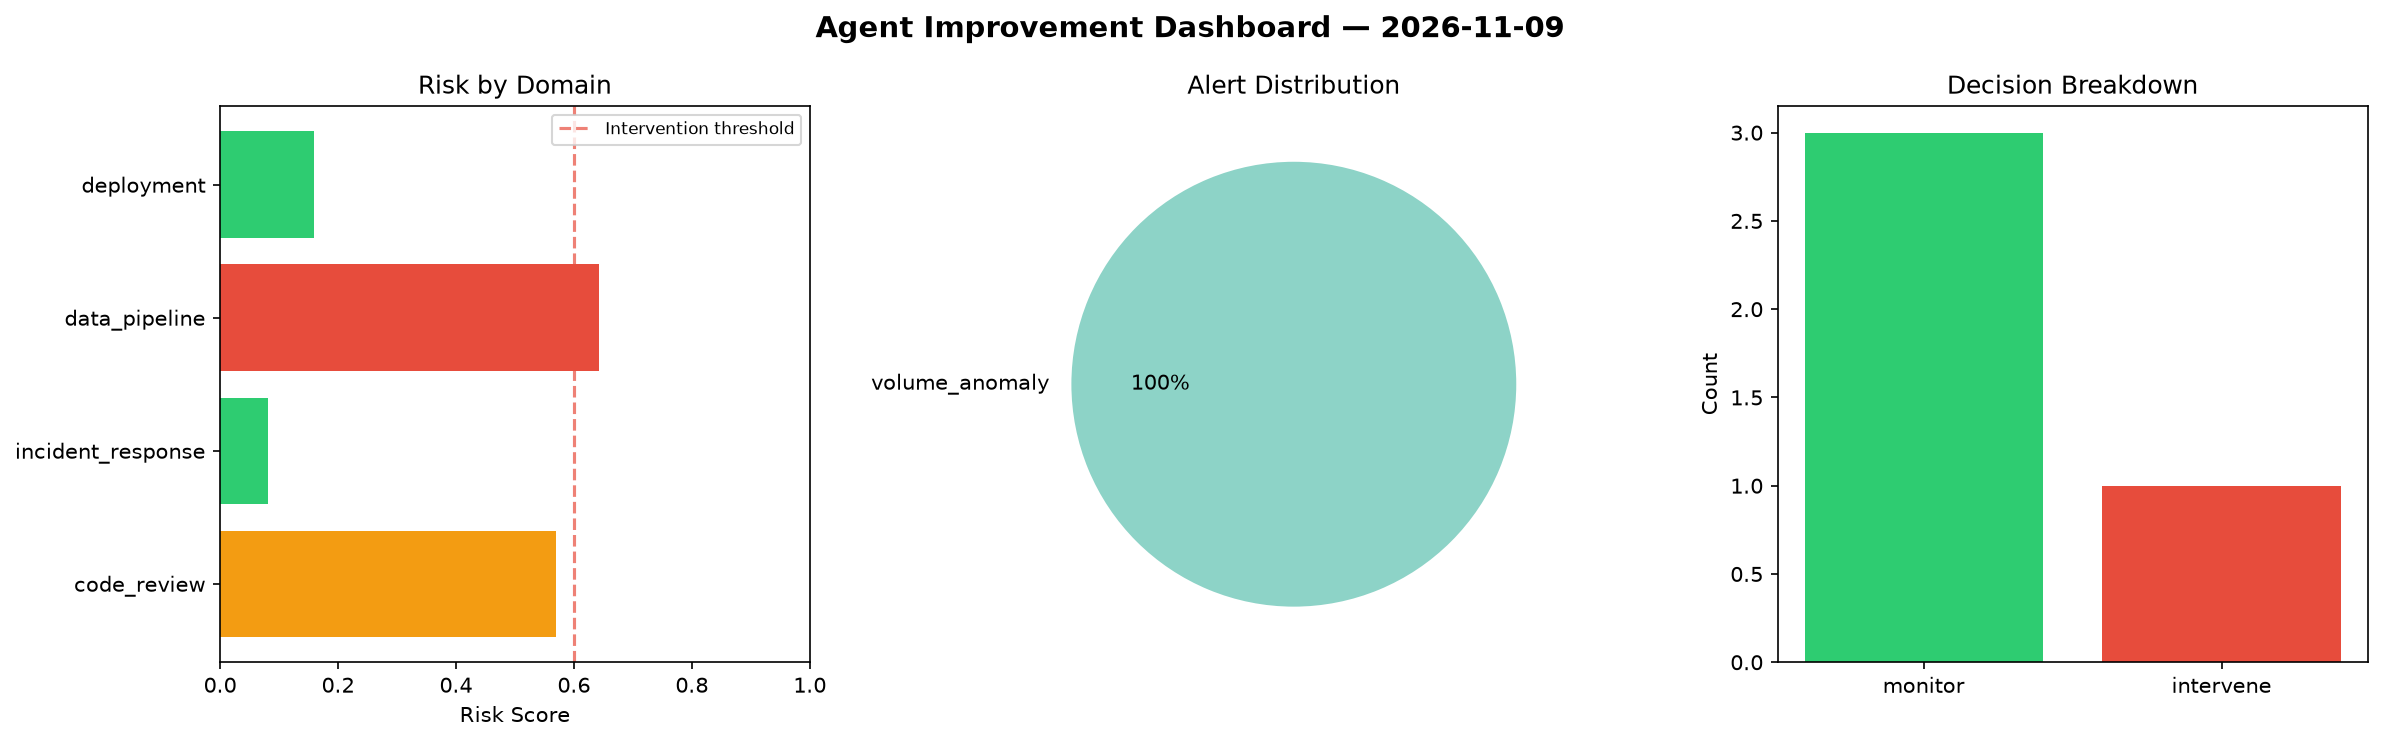
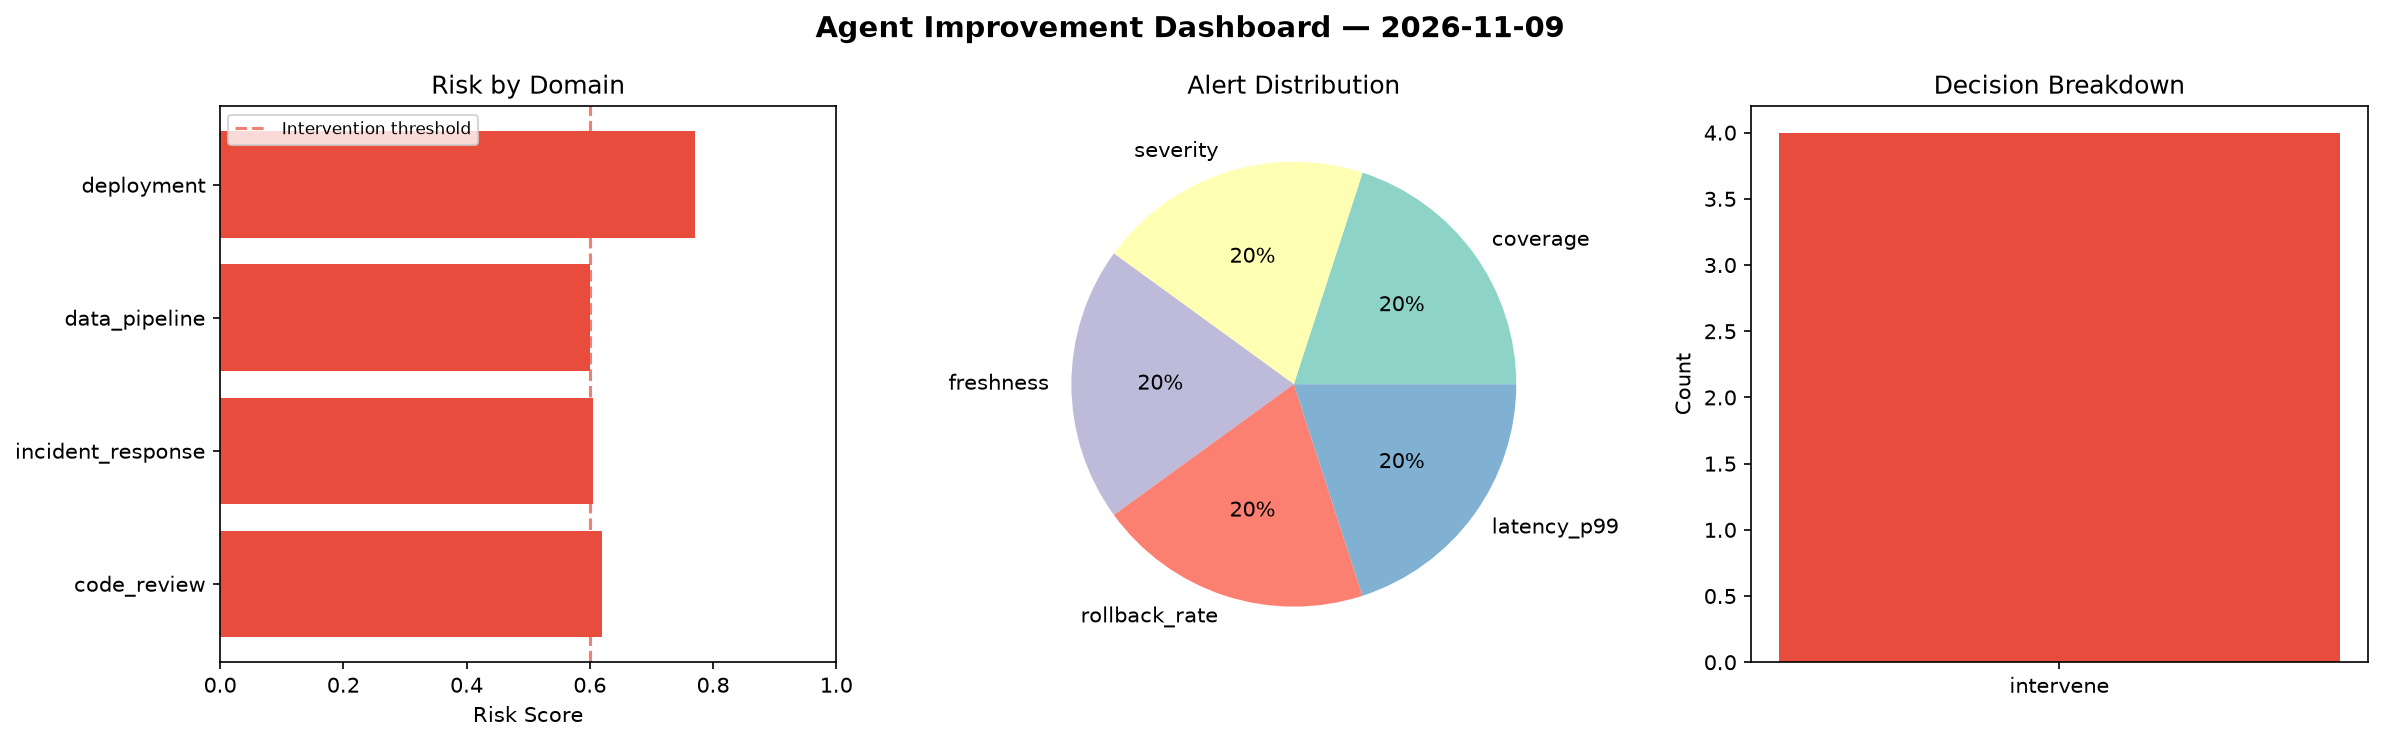
agent-improvement: daily cycle 2026-11-09T18:48

diff --git a/logs/2026-11-09.md b/logs/2026-11-09.md
@@ -1,6 +1,6 @@
 # Agent Improvement Report — 2026-11-09
 
-**Cycle ID:** `95aaffbe` | **Avg Risk:** 0.3631 | **Interventions:** 1/4
+**Cycle ID:** `4c18d7da` | **Avg Risk:** 0.6489 | **Interventions:** 4/4
 
 ![Dashboard](2026-11-09_dashboard.png)
 
@@ -10,18 +10,18 @@
 
 | Domain | Risk Score | Decision | Alerts |
 |--------|-----------|----------|--------|
-| code_review | 0.5699 | monitor | none |
-| incident_response | 0.0806 | monitor | none |
-| data_pipeline | 0.6421 | intervene | volume_anomaly |
-| deployment | 0.1597 | monitor | none |
+| code_review | 0.6198 | intervene | coverage |
+| incident_response | 0.6046 | intervene | severity |
+| data_pipeline | 0.6009 | intervene | freshness |
+| deployment | 0.7701 | intervene | rollback_rate, latency_p99 |
 
 ## Delta vs Yesterday
 
 | Domain | Today | Yesterday | Change |
 |--------|-------|-----------|--------|
-| code_review | 0.5699 | 0.5575 | 📈 2.2% |
-| incident_response | 0.0806 | 0.4701 | 📉 -82.9% |
-| data_pipeline | 0.6421 | 0.5818 | 📈 10.4% |
-| deployment | 0.1597 | 0.4264 | 📉 -62.5% |
+| code_review | 0.6198 | 0.5575 | 📈 11.2% |
+| incident_response | 0.6046 | 0.4701 | 📈 28.6% |
+| data_pipeline | 0.6009 | 0.5818 | 📈 3.3% |
+| deployment | 0.7701 | 0.4264 | 📈 80.6% |
 
-**Refinement:** `{'adjustment': 'maintain', 'trend': 'improving', 'window': 4}`
+**Refinement:** `{'adjustment': 'tighten_thresholds', 'trend': 'degrading', 'window': 4}`
